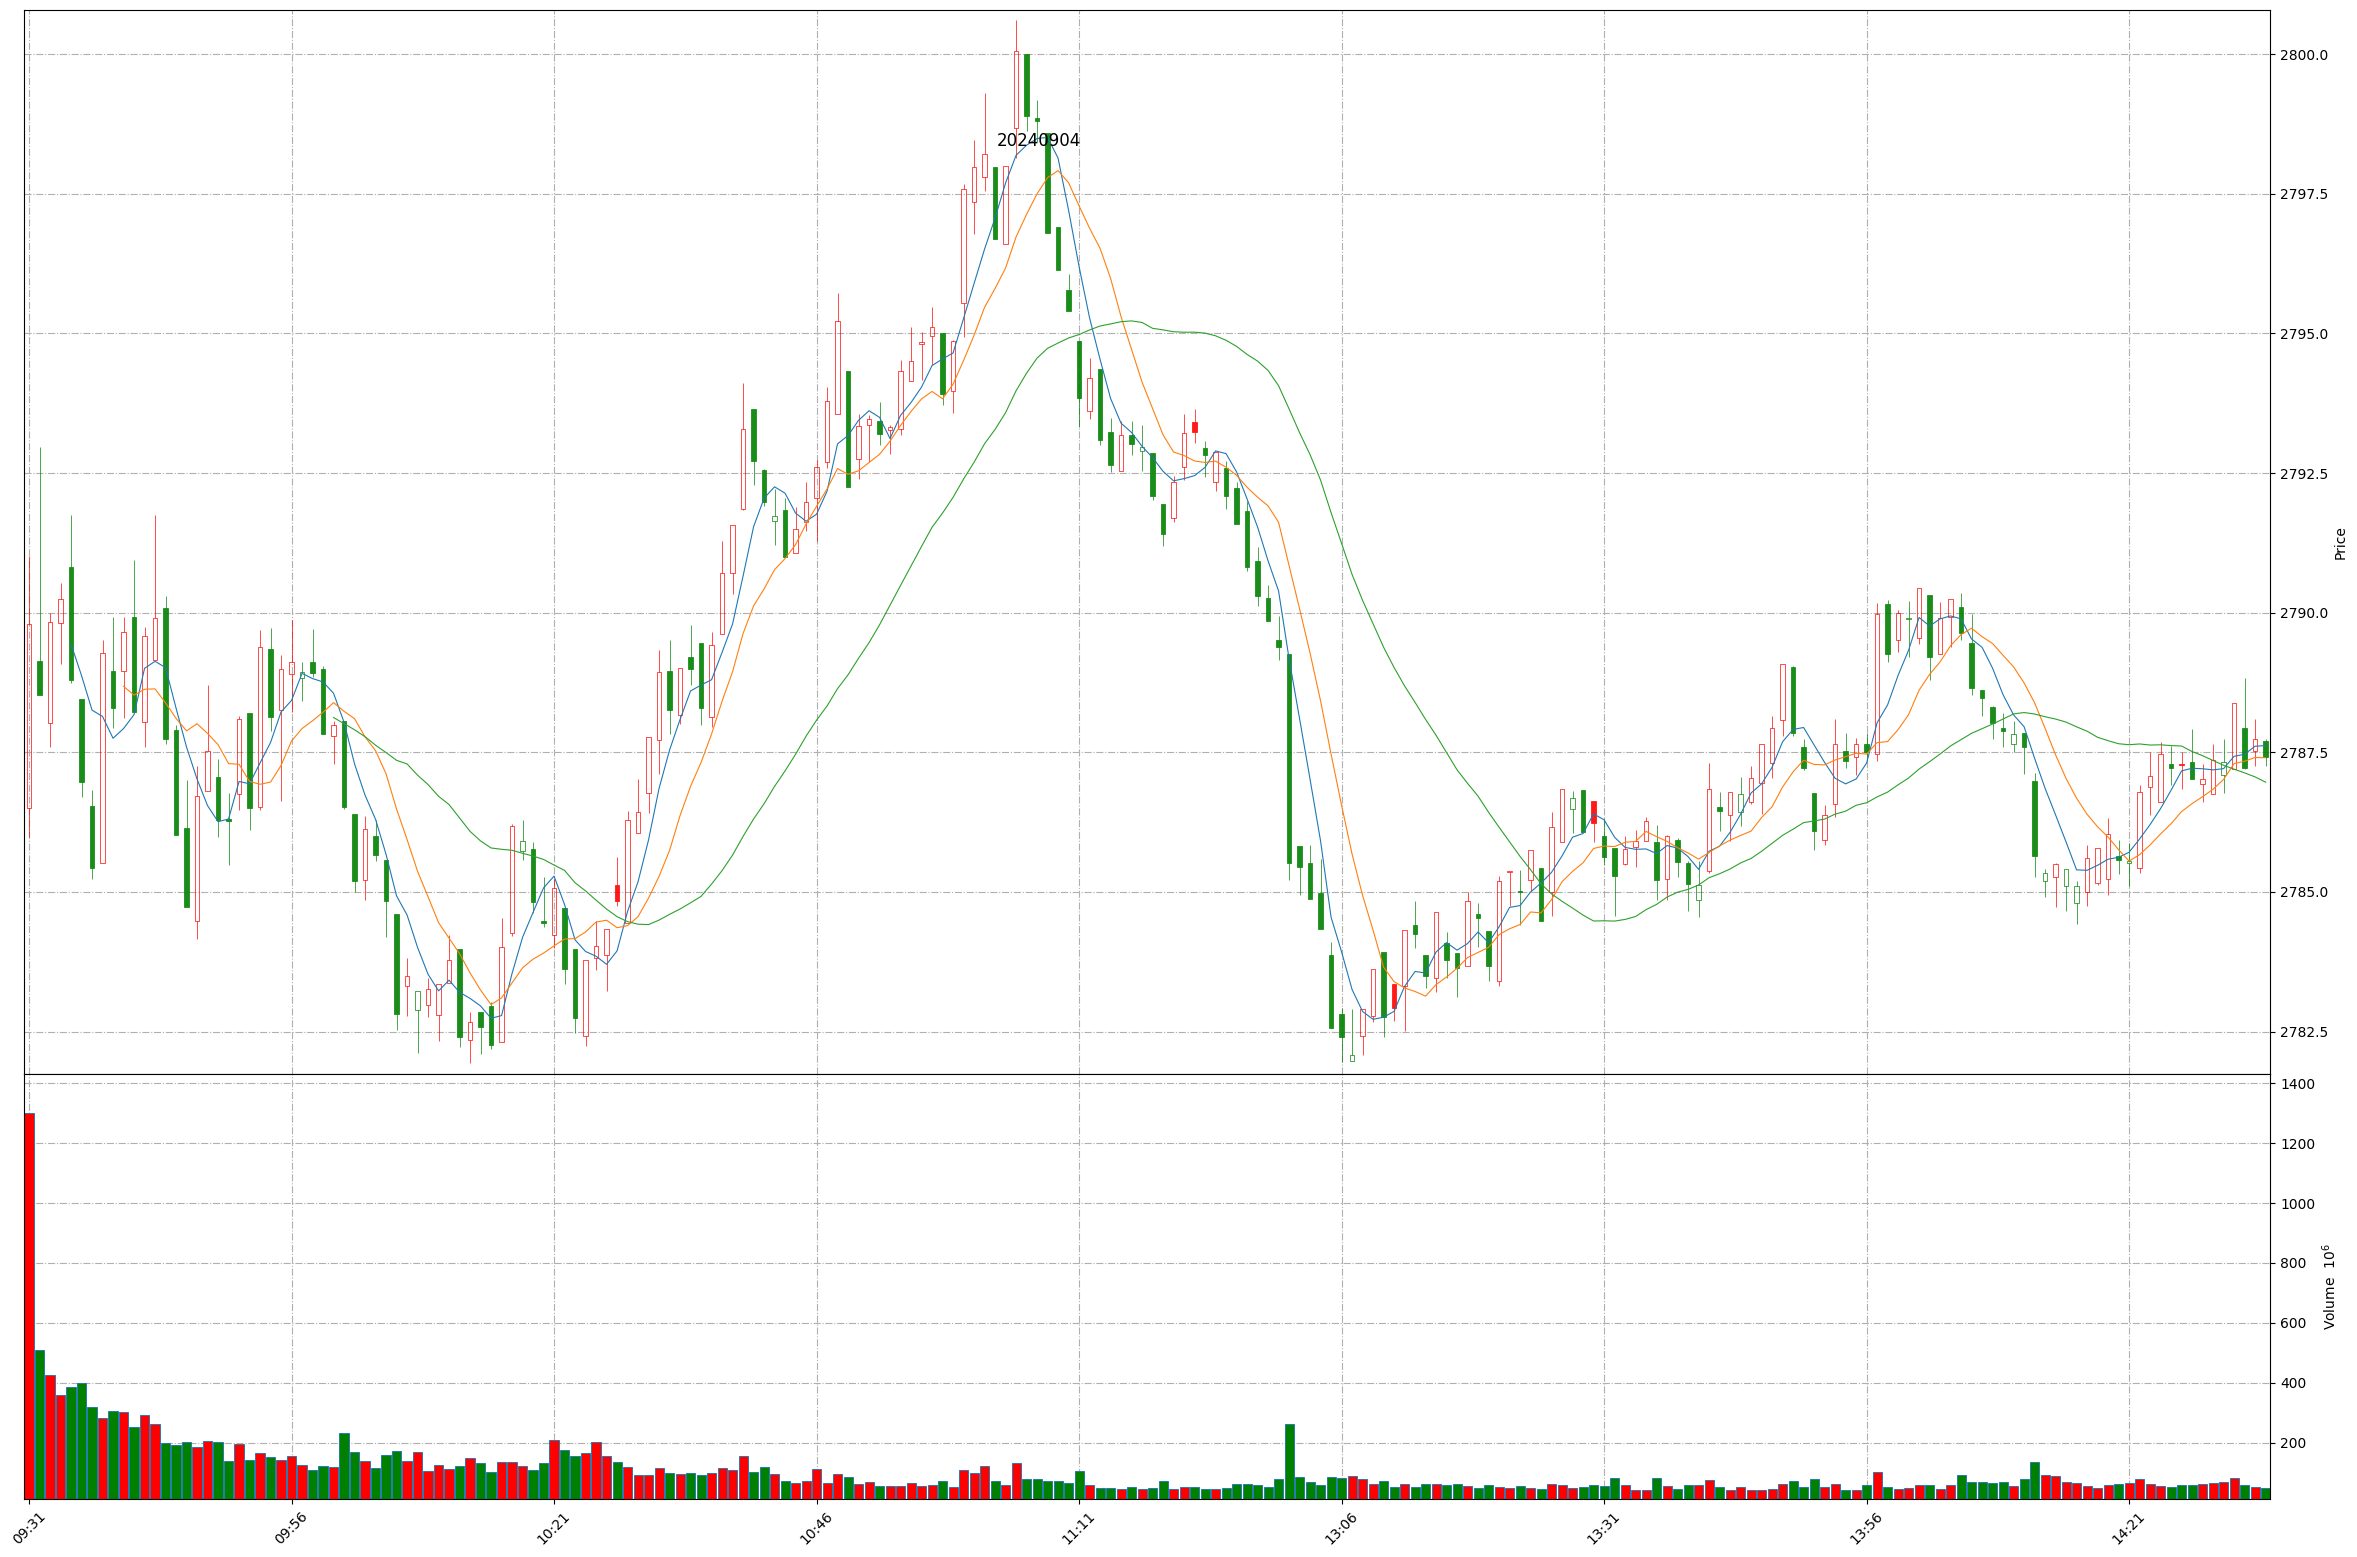
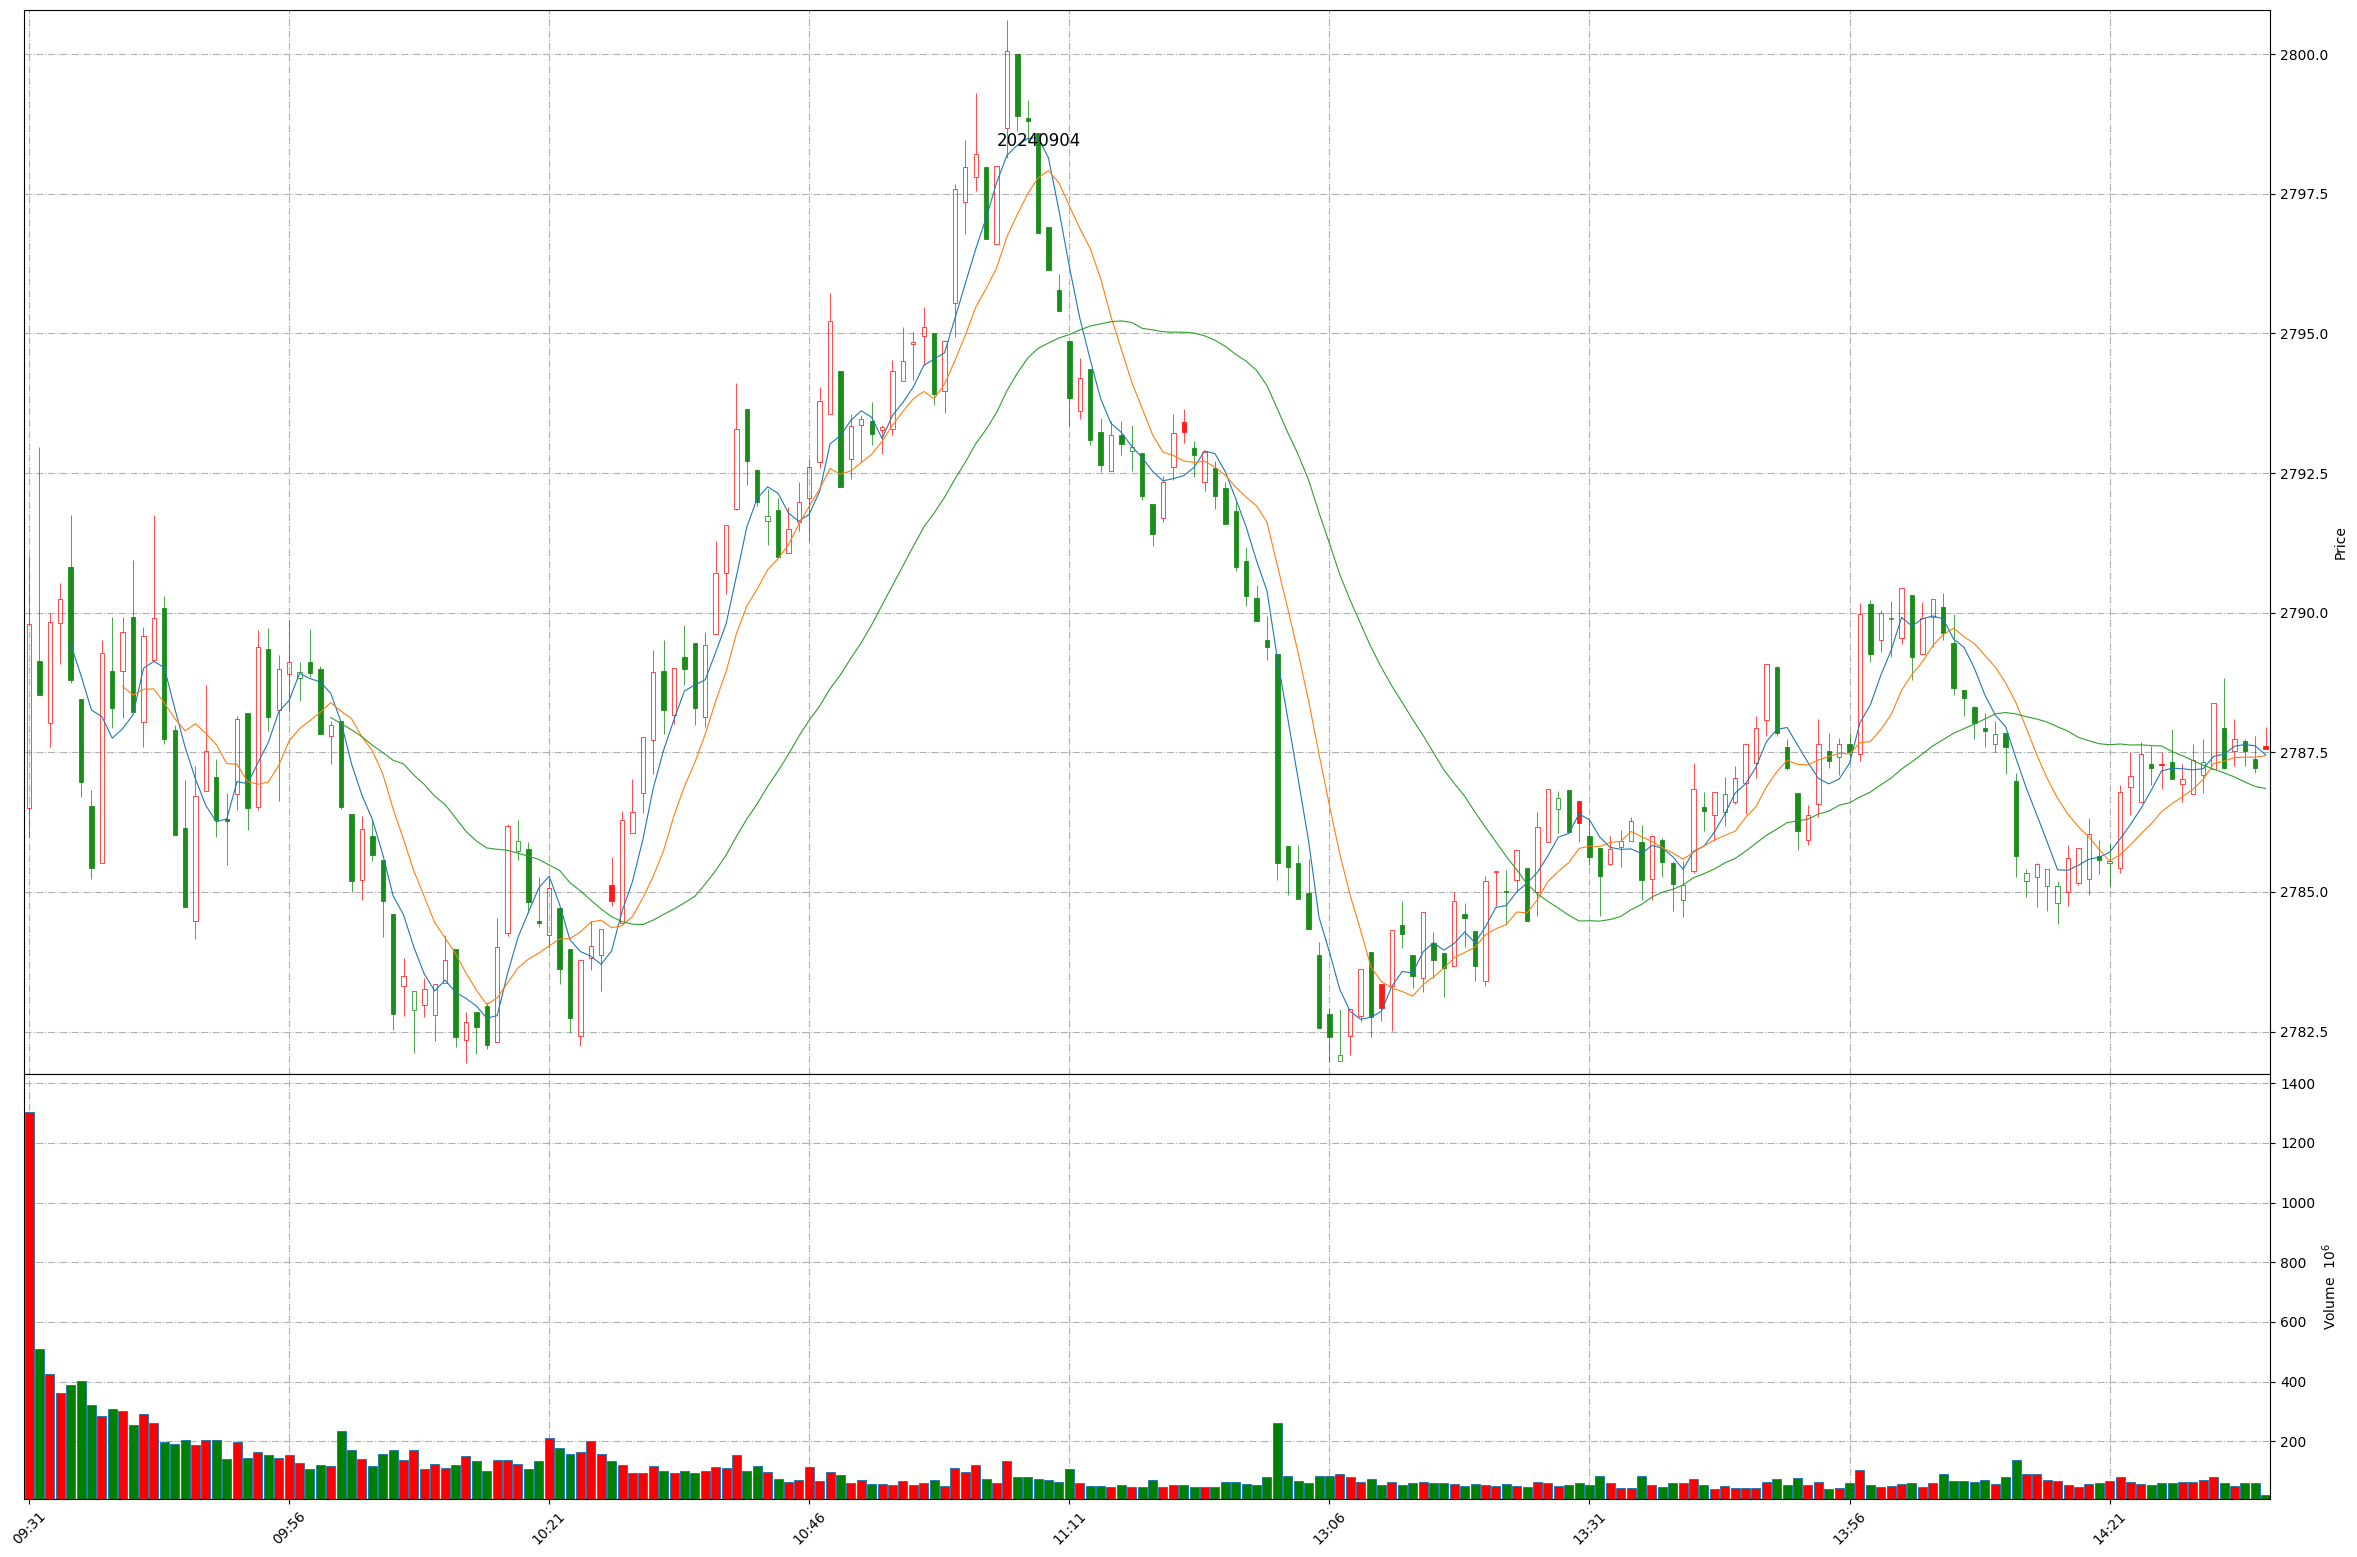
Github action update at 2024-09-04 14:35:46.

diff --git a/README.md b/README.md
@@ -1,11 +1,11 @@
 
 # Daily-A-share-market-quotes 每日 A 股指数（5min 更新）- 20240904
 
-### 上证指数 20240904 14:34
+### 上证指数 20240904 14:35
 ![](./fig/2024/9/20240904-sh000001.png)
 
-### 深证成指 20240904 14:34
+### 深证成指 20240904 14:35
 ![](./fig/2024/9/20240904-sz399001.png)
 
-### 北证50 20240904 14:34
+### 北证50 20240904 14:35
 ![](./fig/2024/9/20240904-bj899050.png)
